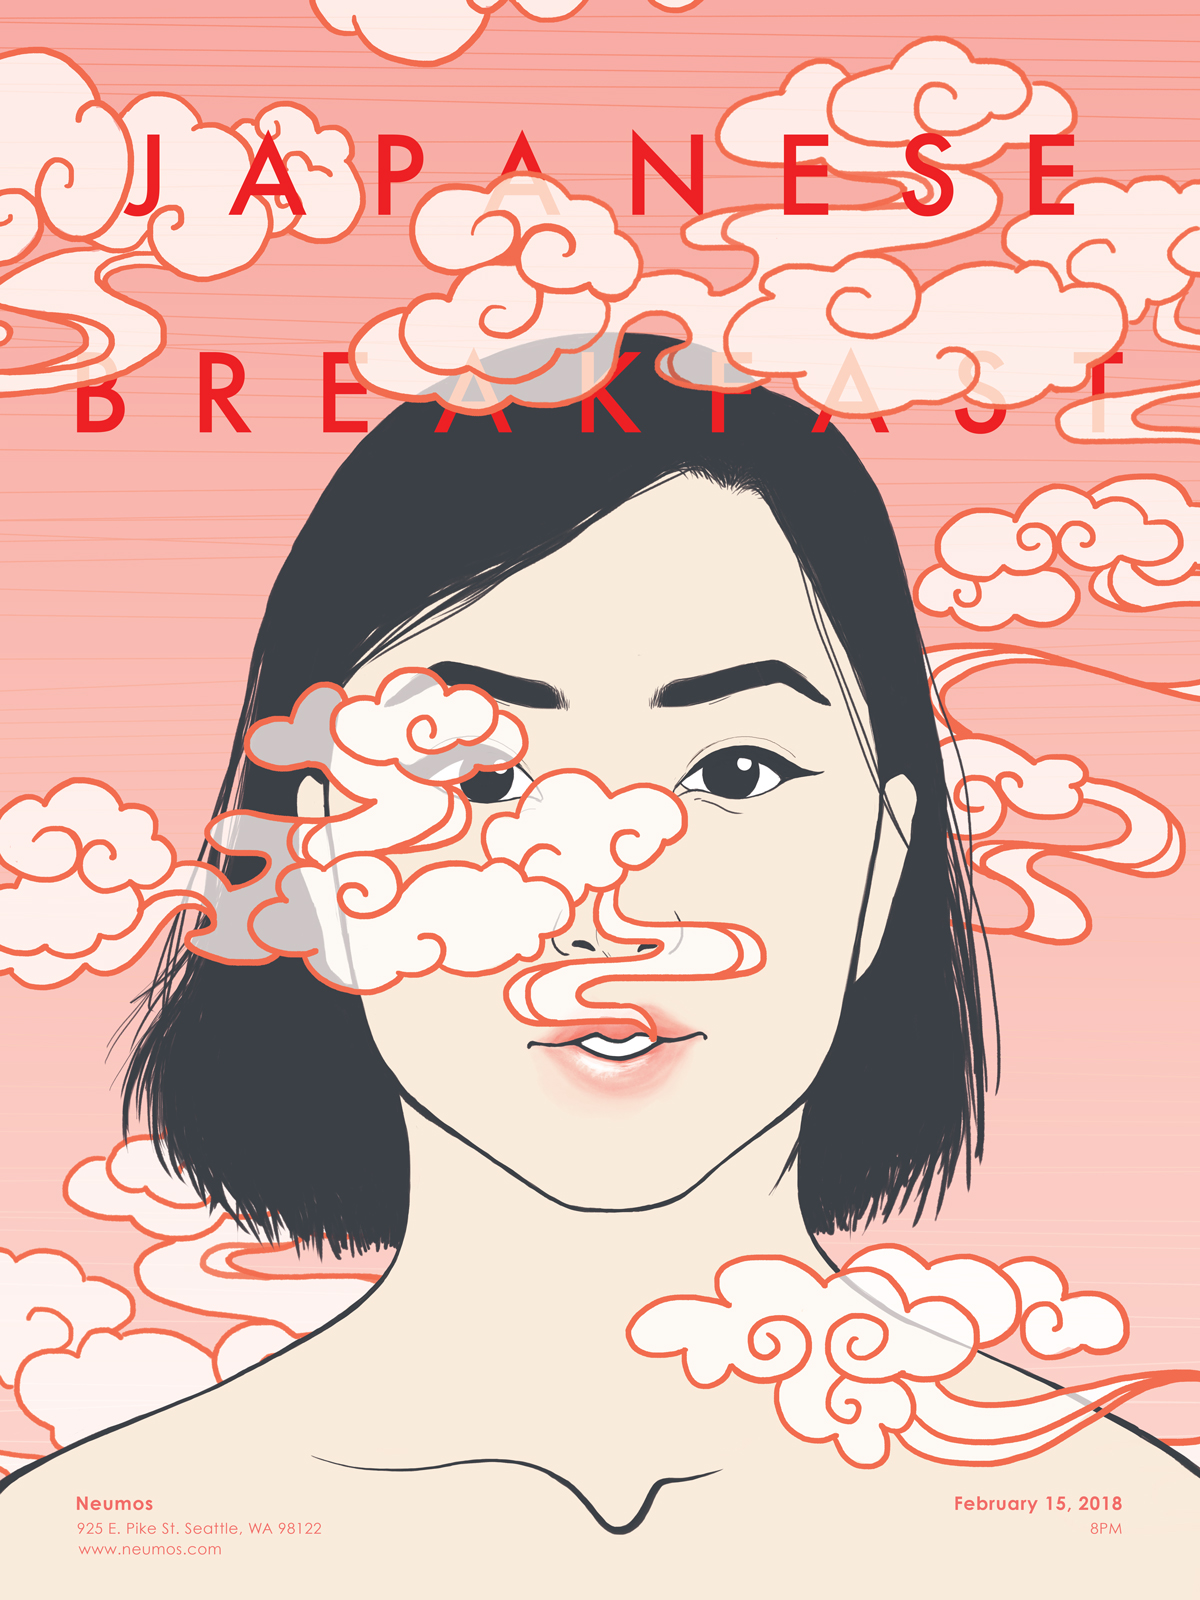
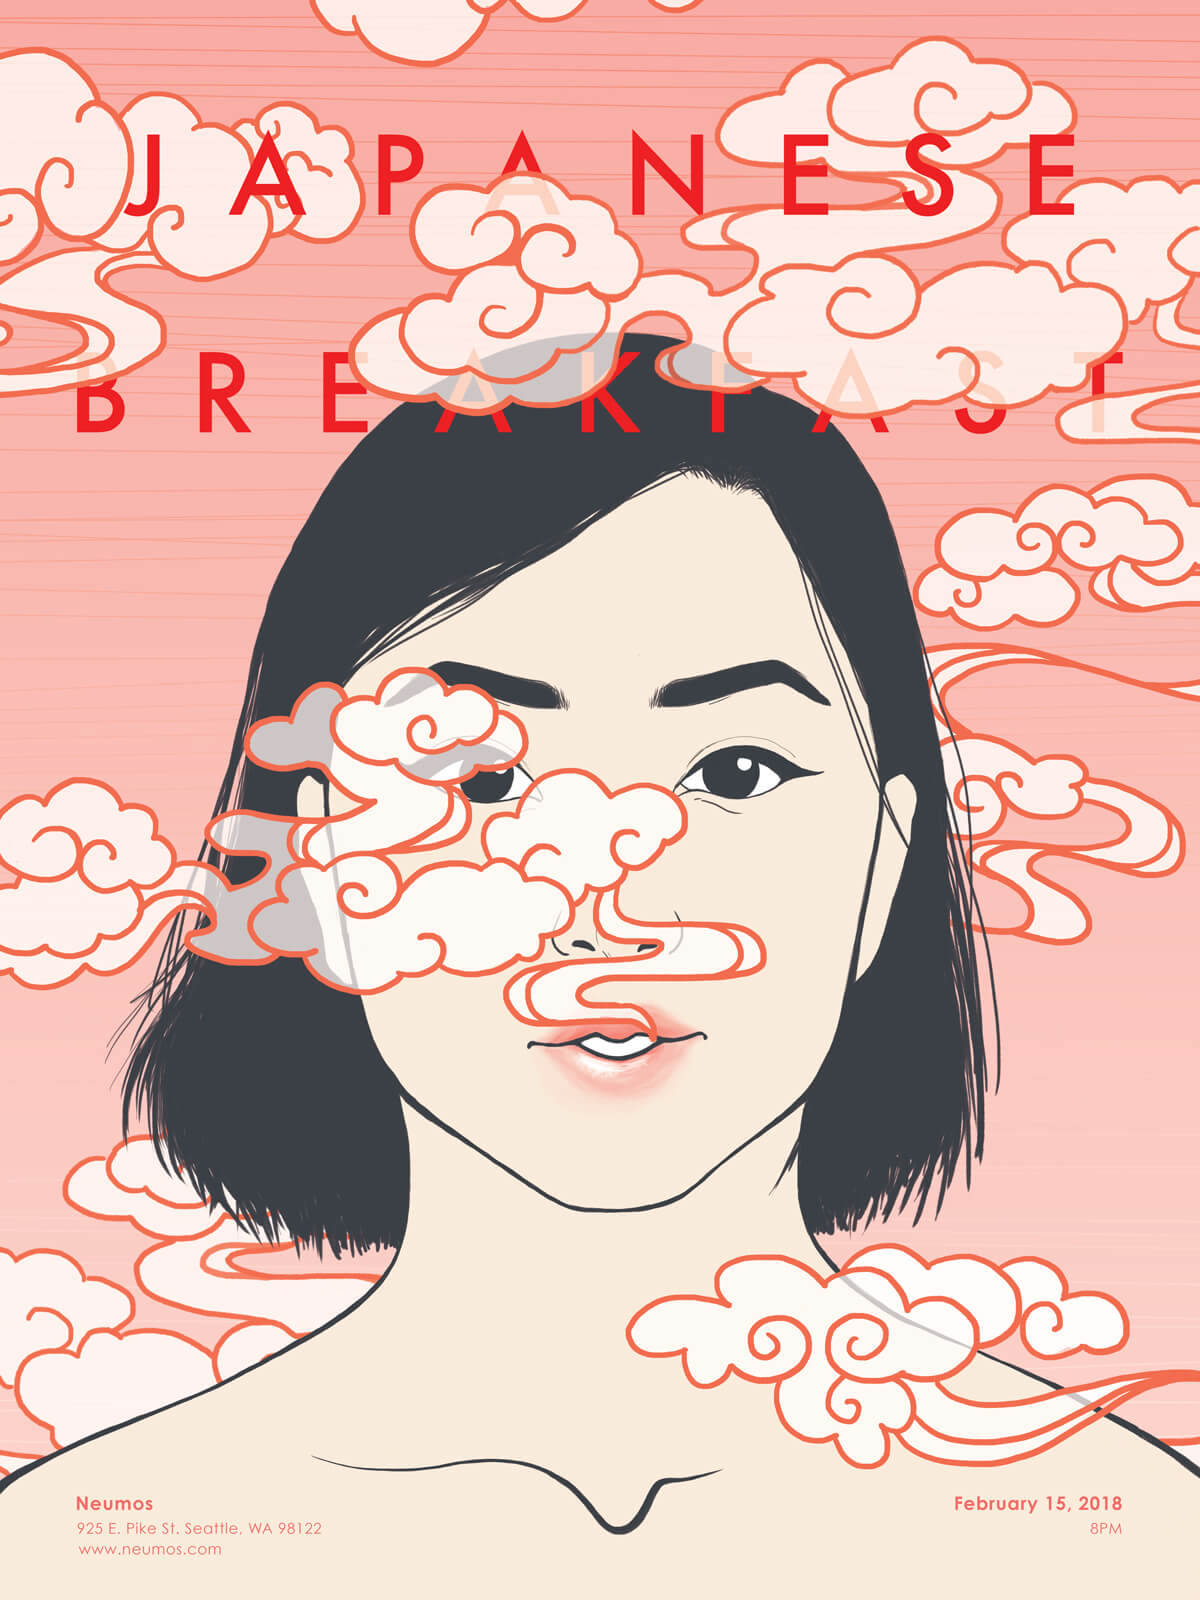
optimized images

Changed region(s): [[0.1233, 0.5938, 0.1542, 0.625]]

diff --git a/project-extras.html b/project-extras.html
@@ -112,7 +112,7 @@
         <img src="img/extra-postcard-03.png">
         <img src="img/extra-postcard-04.png">
         <img src="img/extra-postcard-05.png">
-        <img src="img/extra-postcard-06.jpg">
+        <img src="img/extra-postcard-06.png">
     </div>
     <!-- PROJECT END (DIVIDER) -->
     <div class="container" id="proj-end">

diff --git a/css/project-pou.css b/css/project-pou.css
@@ -92,7 +92,7 @@ h4 {
 }
 
 #proj-pou-packaging {
-    background-image: url('../img/POU-packaging.png');
+    background-image: url('../img/POU-packaging.jpg');
     background-size: 160%;
     background-position: 100% 65%;
 }
